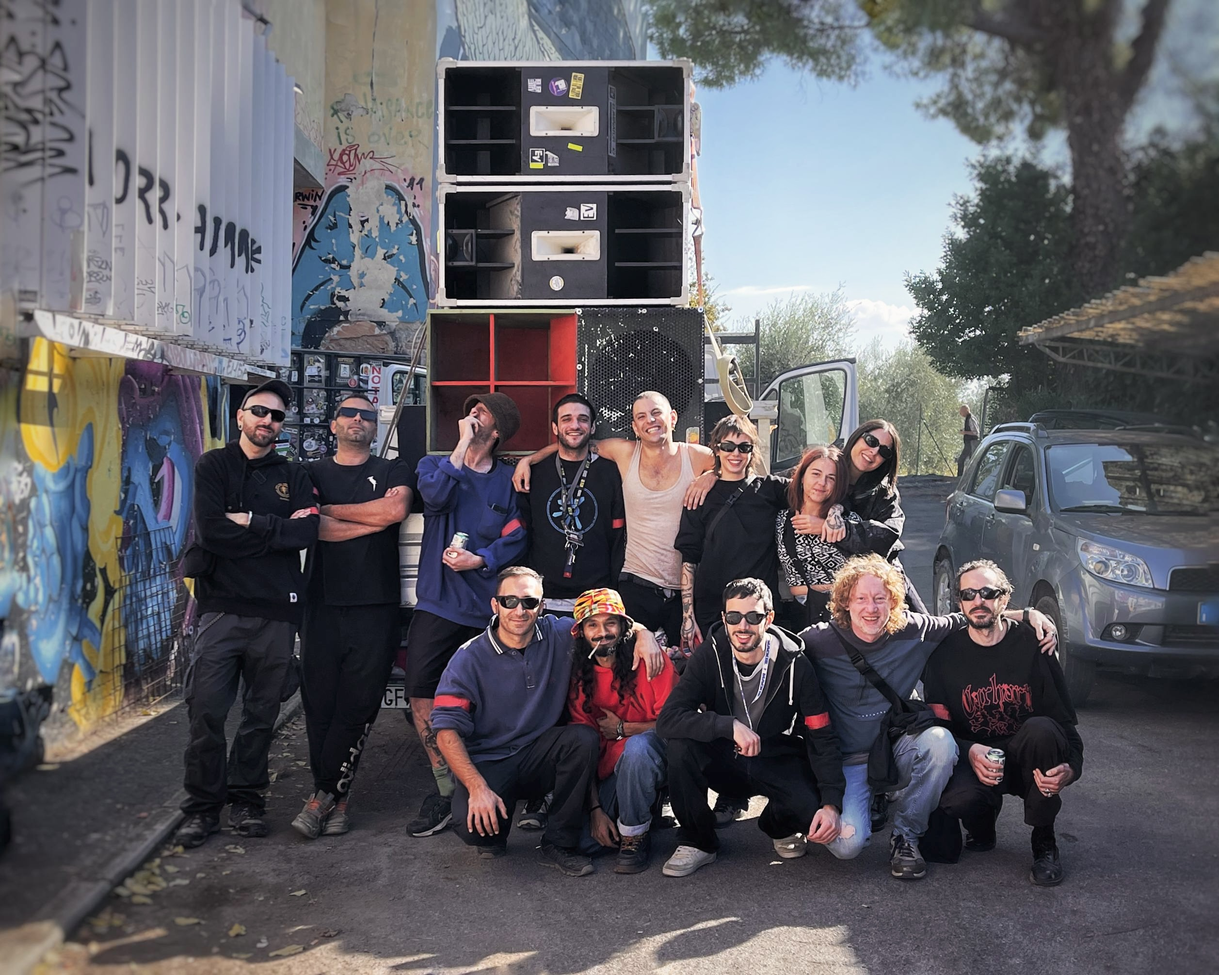
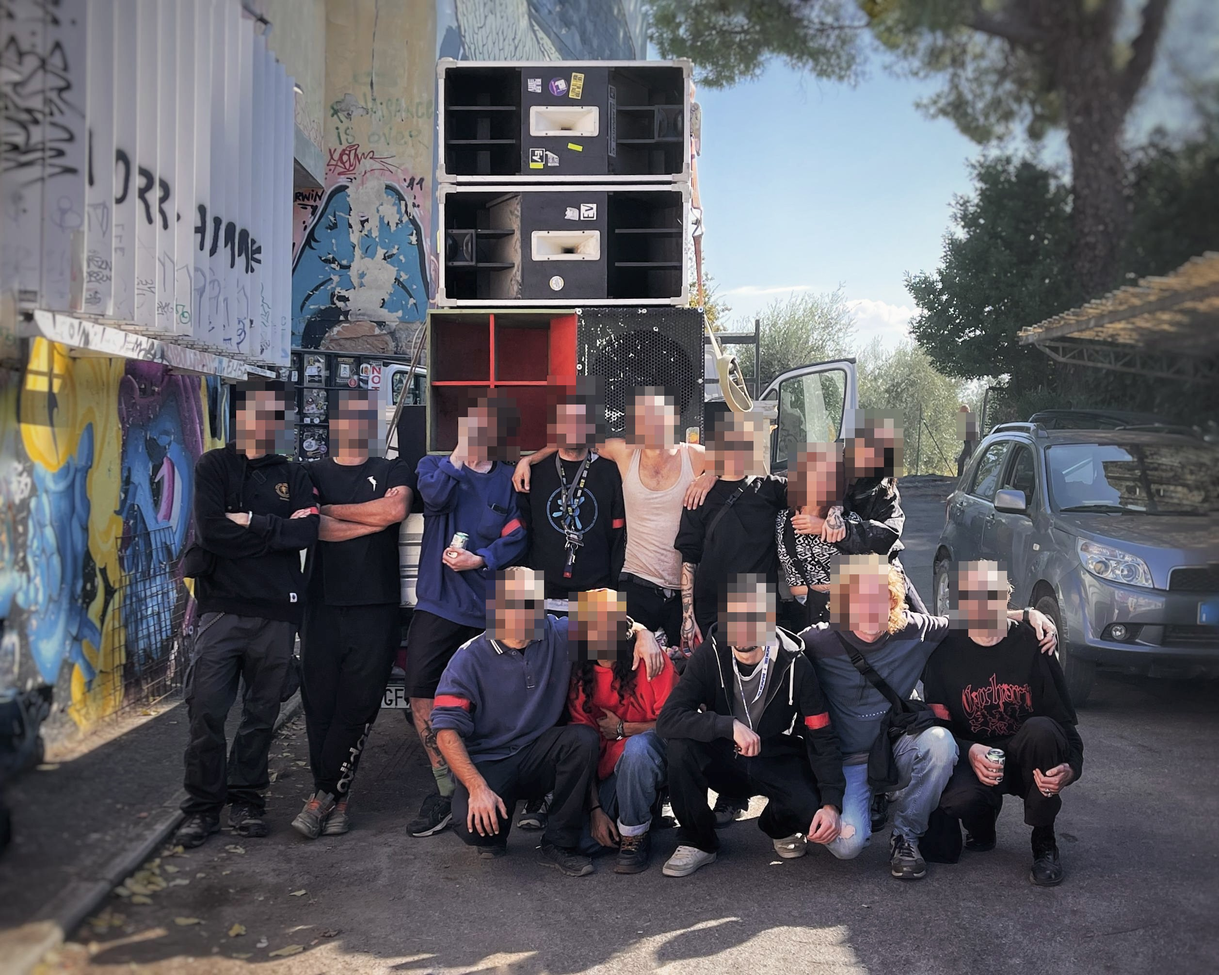
gallery tweaks

diff --git a/index.html b/index.html
@@ -109,8 +109,10 @@
   /* ---------- DRIVE (file browser in iframe) ---------- */
   /* ---------- GALLERY: collage a righe giustificate, ogni foto con le sue proporzioni ---------- */
   .collage{display:flex;flex-wrap:wrap;gap:8px}
-  .collage a{display:block;flex:none;overflow:hidden;background:#111}
-  .collage img{width:100%;height:100%;object-fit:cover;display:block;filter:brightness(.75) contrast(1.15)}   /* brightness = luminosità, contrast = contrasto (1 = originale) */
+  .collage > *{display:block;flex:none;overflow:hidden;background:#111}
+  /* foto protette: niente trascinamento, niente menu "salva" tenendo premuto su telefono */
+  .collage .locked img{pointer-events:none;-webkit-user-drag:none;user-select:none;-webkit-touch-callout:none}
+  .collage img{width:100%;height:100%;object-fit:cover;display:block;filter:brightness(.75) contrast(1.075)}   /* brightness = luminosità, contrast = contrasto (1 = originale) */
   .collage .empty{color:var(--dim);font-size:12px;padding:8px}
 
   /* ---------- FOR BOOKINGS: dado che pesca una clip di 1 minuto dai DJ set ---------- */
@@ -508,6 +510,8 @@ diceInfo.addEventListener("pointercancel", clipEnd);
    Le foto restano intere (niente ritagli): ogni riga ha un'unica altezza e riempie tutta la larghezza.
    Tra tutti i modi di dividere le foto in righe sceglie quello con le altezze più vicine a ROW_H. */
 const collage = document.getElementById("collage");
+// foto che non si aprono a grandezza piena e non si salvano col clic destro / tenendo premuto
+const NO_DOWNLOAD = ["02-annigoni.JPG", "06-emerson.jpg"];
 let photos = [];
 const ROW_H = w => Math.max(130, Math.min(340, w / 3.6));   // altezza ideale di una riga (più bassa = foto più piccole)
 
@@ -550,8 +554,13 @@ fetch("img/gallery/gallery.json", {cache: "no-cache"})
     if (!photos.length) throw 0;
     collage.innerHTML = photos.map(p => {
       const src = enc("img/gallery/" + p.file);
-      return `<a href="${src}" target="_blank" rel="noopener"><img src="${src}" alt="Affinità" loading="lazy" width="${p.w}" height="${p.h}"></a>`;
+      const img = `<img src="${src}" alt="Affinità" loading="lazy" width="${p.w}" height="${p.h}" draggable="false">`;
+      return NO_DOWNLOAD.includes(p.file)
+        ? `<div class="locked">${img}</div>`                                  // protetta: non si apre e non si salva
+        : `<a href="${src}" target="_blank" rel="noopener">${img}</a>`;       // le altre: clic = foto grande
     }).join("");
+    // niente clic destro ("Salva immagine con nome") sulle foto protette
+    collage.addEventListener("contextmenu", e => { if (e.target.closest(".locked")) e.preventDefault(); });
     layoutCollage();
     new ResizeObserver(layoutCollage).observe(collage);
   })
